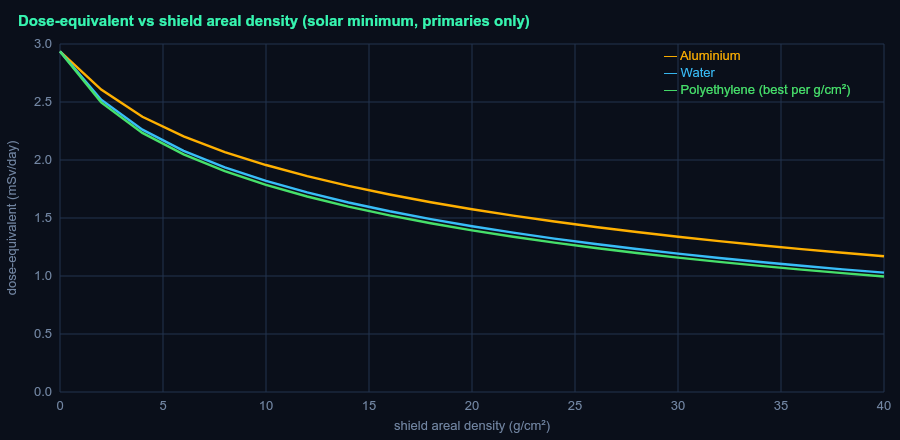
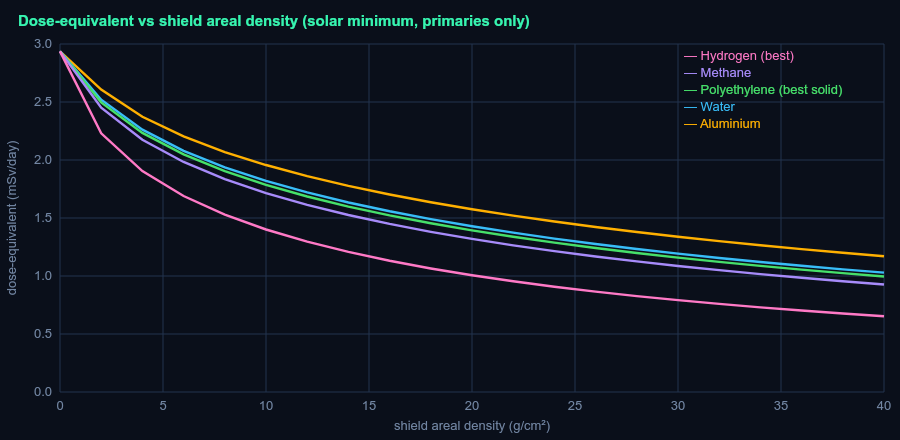
A2: surface the 5-material ranking in report plot + on-page panel
Make the hydrogen-content shielding ranking visible everywhere it's claimed:
- generateReport.ts: shielding plot now draws all 5 materials (H2/CH4 added with their
  trace colours + legend); the §3 markdown rewritten to the H2<CH4<PE<water<Al ranking,
  numbers live from the validation summary (H2 cuts dose up to 44.2% vs Al; PE 11.6% @user).
- dose.worker.ts: the panel's shielding-trend check now calls computeShieldingTrendSummary()
  (the SAME function the report uses) instead of an inline poly<Al loop — single source for
  the trend, no drift. ValidationData.trendWorst -> trendBest (H2-vs-Al margin).
- main.ts: panel row now reads 'Shields rank by hydrogen content: H2 < CH4 < PE < water < Al
  — hydrogen beats aluminium by up to 44.2%'.
- report/: regenerated (also catches the NIST plot up to all 5 materials).
Verified: typecheck 0, 103 tests, build clean; live panel shows 44.2% = report = engine; no
console errors. (NIST/RAD panel values still inline in the worker — full b-panel merge later.)

diff --git a/src/report/generateReport.ts b/src/report/generateReport.ts
@@ -32,7 +32,7 @@ mkdirSync(PLOTS, { recursive: true });
 // ---- theme -----------------------------------------------------------------
 const C = {
   bg: '#0a0f1a', panel: '#0e1626', grid: '#22324e', dim: '#7286a3', text: '#cdd9ea',
-  al: '#ffb000', poly: '#46e06a', water: '#38bdf8', accent: '#36f5b0', warn: '#ff6b6b', mark: '#e7f0ff',
+  al: '#ffb000', poly: '#46e06a', water: '#38bdf8', hydrogen: '#ff79c6', methane: '#a78bfa', accent: '#36f5b0', warn: '#ff6b6b', mark: '#e7f0ff',
 };
 const FONT = '13px sans-serif';
 type Ctx = SKRSContext2D;
@@ -99,11 +99,11 @@ function plotShielding(thick: number[], series: Record<string, number[]>): strin
   for (let t = 0; t <= tMax; t += 5) { const x = xOf(t); ctx.beginPath(); ctx.moveTo(x, pad.t); ctx.lineTo(x, pad.t + ph); ctx.stroke(); ctx.textAlign = 'center'; ctx.fillText(String(t), x, H - pad.b + 18); }
   ctx.textAlign = 'center'; ctx.fillText('shield areal density (g/cm²)', pad.l + pw / 2, H - 10);
   ctx.save(); ctx.translate(16, pad.t + ph / 2); ctx.rotate(-Math.PI / 2); ctx.fillText('dose-equivalent (mSv/day)', 0, 0); ctx.restore();
-  const cols: Record<string, string> = { aluminum: C.al, polyethylene: C.poly, water: C.water };
-  for (const k of ['aluminum', 'water', 'polyethylene']) { ctx.strokeStyle = cols[k]!; ctx.lineWidth = 2.4; ctx.beginPath(); series[k]!.forEach((h, i) => { const x = xOf(thick[i]!); const y = yOf(h); i ? ctx.lineTo(x, y) : ctx.moveTo(x, y); }); ctx.stroke(); }
+  const cols: Record<string, string> = { aluminum: C.al, polyethylene: C.poly, water: C.water, hydrogen: C.hydrogen, methane: C.methane };
+  for (const k of ['aluminum', 'water', 'polyethylene', 'methane', 'hydrogen']) { ctx.strokeStyle = cols[k]!; ctx.lineWidth = 2.4; ctx.beginPath(); series[k]!.forEach((h, i) => { const x = xOf(thick[i]!); const y = yOf(h); i ? ctx.lineTo(x, y) : ctx.moveTo(x, y); }); ctx.stroke(); }
   ctx.textAlign = 'left';
-  const leg = [['Aluminium', C.al], ['Water', C.water], ['Polyethylene (best per g/cm²)', C.poly]] as const;
-  leg.forEach(([t, c], i) => { ctx.fillStyle = c; ctx.fillText('— ' + t, pad.l + pw - 220, pad.t + 16 + i * 17); });
+  const leg = [['Hydrogen (best)', C.hydrogen], ['Methane', C.methane], ['Polyethylene (best solid)', C.poly], ['Water', C.water], ['Aluminium', C.al]] as const;
+  leg.forEach(([t, c], i) => { ctx.fillStyle = c; ctx.fillText('— ' + t, pad.l + pw - 200, pad.t + 16 + i * 17); });
   return save(canvas, 'shielding_curve.png');
 }
 
@@ -179,7 +179,7 @@ const free = computeFreeSpaceDose(W_SOLAR_MIN);
 const feFrac = (free.perSpecies.find((p) => p.Z === 26)?.doseEqFraction ?? 0) * 100;
 
 const thick: number[] = []; for (let t = 0; t <= 40 + 1e-9; t += 2) thick.push(t);
-const series: Record<string, number[]> = { aluminum: [], polyethylene: [], water: [] };
+const series: Record<string, number[]> = { aluminum: [], polyethylene: [], water: [], hydrogen: [], methane: [] };
 for (const m of Object.keys(series)) for (const t of thick) series[m]!.push(computeShieldedDose(m, t, W_SOLAR_MIN).doseEquivalent_mSv_day);
 const i20 = thick.indexOf(20);
 const polyBenefit20 = (1 - series.polyethylene![i20]! / series.aluminum![i20]!) * 100;
@@ -252,13 +252,14 @@ upper bounds (free space, primaries only) that exceed shielded measurements — 
 
 ## 3. Shielding: dose-equivalent vs material
 
-At equal areal density, hydrogen-rich **polyethylene shields better than aluminium**
-(more electrons per gram → more stopping per g/cm²); water sits between them, matching the
-⟨Z/A⟩ ordering. At 20 g/cm², polyethylene beats aluminium by **${fx(polyBenefit20, 1)}%** in this
-primary-only model.
+At equal areal density the five shields rank **exactly by hydrogen content** (⟨Z/A⟩) — more
+electrons per gram stop more per g/cm². Dose-equivalent increases strictly along
+**hydrogen < methane < polyethylene < water < aluminium** at every thickness from 5 to 40 g/cm²
+(validated). Hydrogen, the per-mass optimum, cuts dose-equivalent up to **${fx(validation.trend.maxBestBenefitPct, 1)}%**
+below aluminium; polyethylene — the best *solid* — beats aluminium by **${fx(polyBenefit20, 1)}%** at 20 g/cm² in this primary-only model.
 
-> Honest caveat: this primary-only model *under*-states polyethylene's real advantage, which
-> also comes from its lower nuclear fragmentation (fewer/lighter secondaries) — Phase 5.
+> Honest caveat: this primary-only model *under*-states the hydrogen-rich materials' real
+> advantage, which also comes from their lower nuclear fragmentation (fewer/lighter secondaries) — Phase 5.
 
 ![Shielding curve](${shieldPng})
 

diff --git a/src/ui/dose.worker.ts b/src/ui/dose.worker.ts
@@ -5,6 +5,7 @@
 import { computeShieldedDose } from '../dose/shieldedDose.js';
 import { computeFragmentedDose } from '../dose/fragmentedDose.js';
 import { computeRadComparison } from '../dose/radComparison.js';
+import { computeShieldingTrendSummary } from '../validation/validationSummary.js';
 import type { RadComparison } from '../dose/radComparison.js';
 import { electronicMassStoppingPower } from '../physics/stoppingPower.js';
 import { MATERIALS } from '../physics/materials.js';
@@ -52,7 +53,8 @@ export interface ValidationData {
   /** NIST PSTAR max % error over all energies (1–1000 MeV) */
   nistMaxAll: number;
   trendOk: boolean;
-  trendWorst: number;
+  /** max % the best shield (hydrogen) beats the worst (aluminium) at equal areal density */
+  trendBest: number;
   /** MSL/RAD comparison — the SAME function `npm run report` uses */
   rad: RadComparison;
   radSigma: { D: number; H: number; Q: number };
@@ -78,15 +80,8 @@ function runValidation(): ValidationData {
     }
   }
 
-  // 2. Shielding trend: polyethylene < aluminium at equal areal density.
-  let trendOk = true;
-  let trendWorst = 0;
-  for (const t of [10, 20, 30]) {
-    const al = computeShieldedDose('aluminum', t, W_SOLAR_MIN).doseEquivalent_mSv_day;
-    const poly = computeShieldedDose('polyethylene', t, W_SOLAR_MIN).doseEquivalent_mSv_day;
-    if (!(poly < al)) trendOk = false;
-    trendWorst = Math.max(trendWorst, (1 - poly / al) * 100);
-  }
+  // 2. Shielding trend: the full H2<CH4<PE<water<Al ranking — shared with `npm run report`.
+  const trend = computeShieldingTrendSummary();
 
   // 3. MSL/RAD cruise comparison (model vs measured, with ratios).
   const rad = computeRadComparison();
@@ -94,8 +89,8 @@ function runValidation(): ValidationData {
   return {
     nistMaxSolid,
     nistMaxAll,
-    trendOk,
-    trendWorst,
+    trendOk: trend.ok,
+    trendBest: trend.maxBestBenefitPct,
     rad,
     radSigma: { D: RAD_CRUISE.doseRate_sigma, H: RAD_CRUISE.doseEquivalent_sigma, Q: RAD_CRUISE.meanQ_sigma },
     cruiseW: W_CRUISE_2012,

diff --git a/src/ui/main.ts b/src/ui/main.ts
@@ -200,8 +200,8 @@ function renderValidation(d: ValidationData): void {
     ) +
     check(
       d.trendOk,
-      'Polyethylene < aluminium at equal areal density',
-      `poly better by up to ${f(d.trendWorst, 1)}%`,
+      'Shields rank by hydrogen content: H₂ < CH₄ < PE < water < Al',
+      `hydrogen beats aluminium by up to ${f(d.trendBest, 1)}%`,
     ) +
     `<div style="margin-top:12px;background:#091020;border:1px solid var(--edge);border-radius:8px;padding:12px">
       <div style="font-size:11px;color:var(--accent);letter-spacing:1px;margin-bottom:6px">MSL/RAD CRUISE — MODEL vs MEASURED</div>

diff --git a/report/DOSEFIELD_report.md b/report/DOSEFIELD_report.md
@@ -45,13 +45,14 @@ upper bounds (free space, primaries only) that exceed shielded measurements — 
 
 ## 3. Shielding: dose-equivalent vs material
 
-At equal areal density, hydrogen-rich **polyethylene shields better than aluminium**
-(more electrons per gram → more stopping per g/cm²); water sits between them, matching the
-⟨Z/A⟩ ordering. At 20 g/cm², polyethylene beats aluminium by **11.6%** in this
-primary-only model.
+At equal areal density the five shields rank **exactly by hydrogen content** (⟨Z/A⟩) — more
+electrons per gram stop more per g/cm². Dose-equivalent increases strictly along
+**hydrogen < methane < polyethylene < water < aluminium** at every thickness from 5 to 40 g/cm²
+(validated). Hydrogen, the per-mass optimum, cuts dose-equivalent up to **44.2%**
+below aluminium; polyethylene — the best *solid* — beats aluminium by **11.6%** at 20 g/cm² in this primary-only model.
 
-> Honest caveat: this primary-only model *under*-states polyethylene's real advantage, which
-> also comes from its lower nuclear fragmentation (fewer/lighter secondaries) — Phase 5.
+> Honest caveat: this primary-only model *under*-states the hydrogen-rich materials' real
+> advantage, which also comes from their lower nuclear fragmentation (fewer/lighter secondaries) — Phase 5.
 
 ![Shielding curve](plots/shielding_curve.png)
 